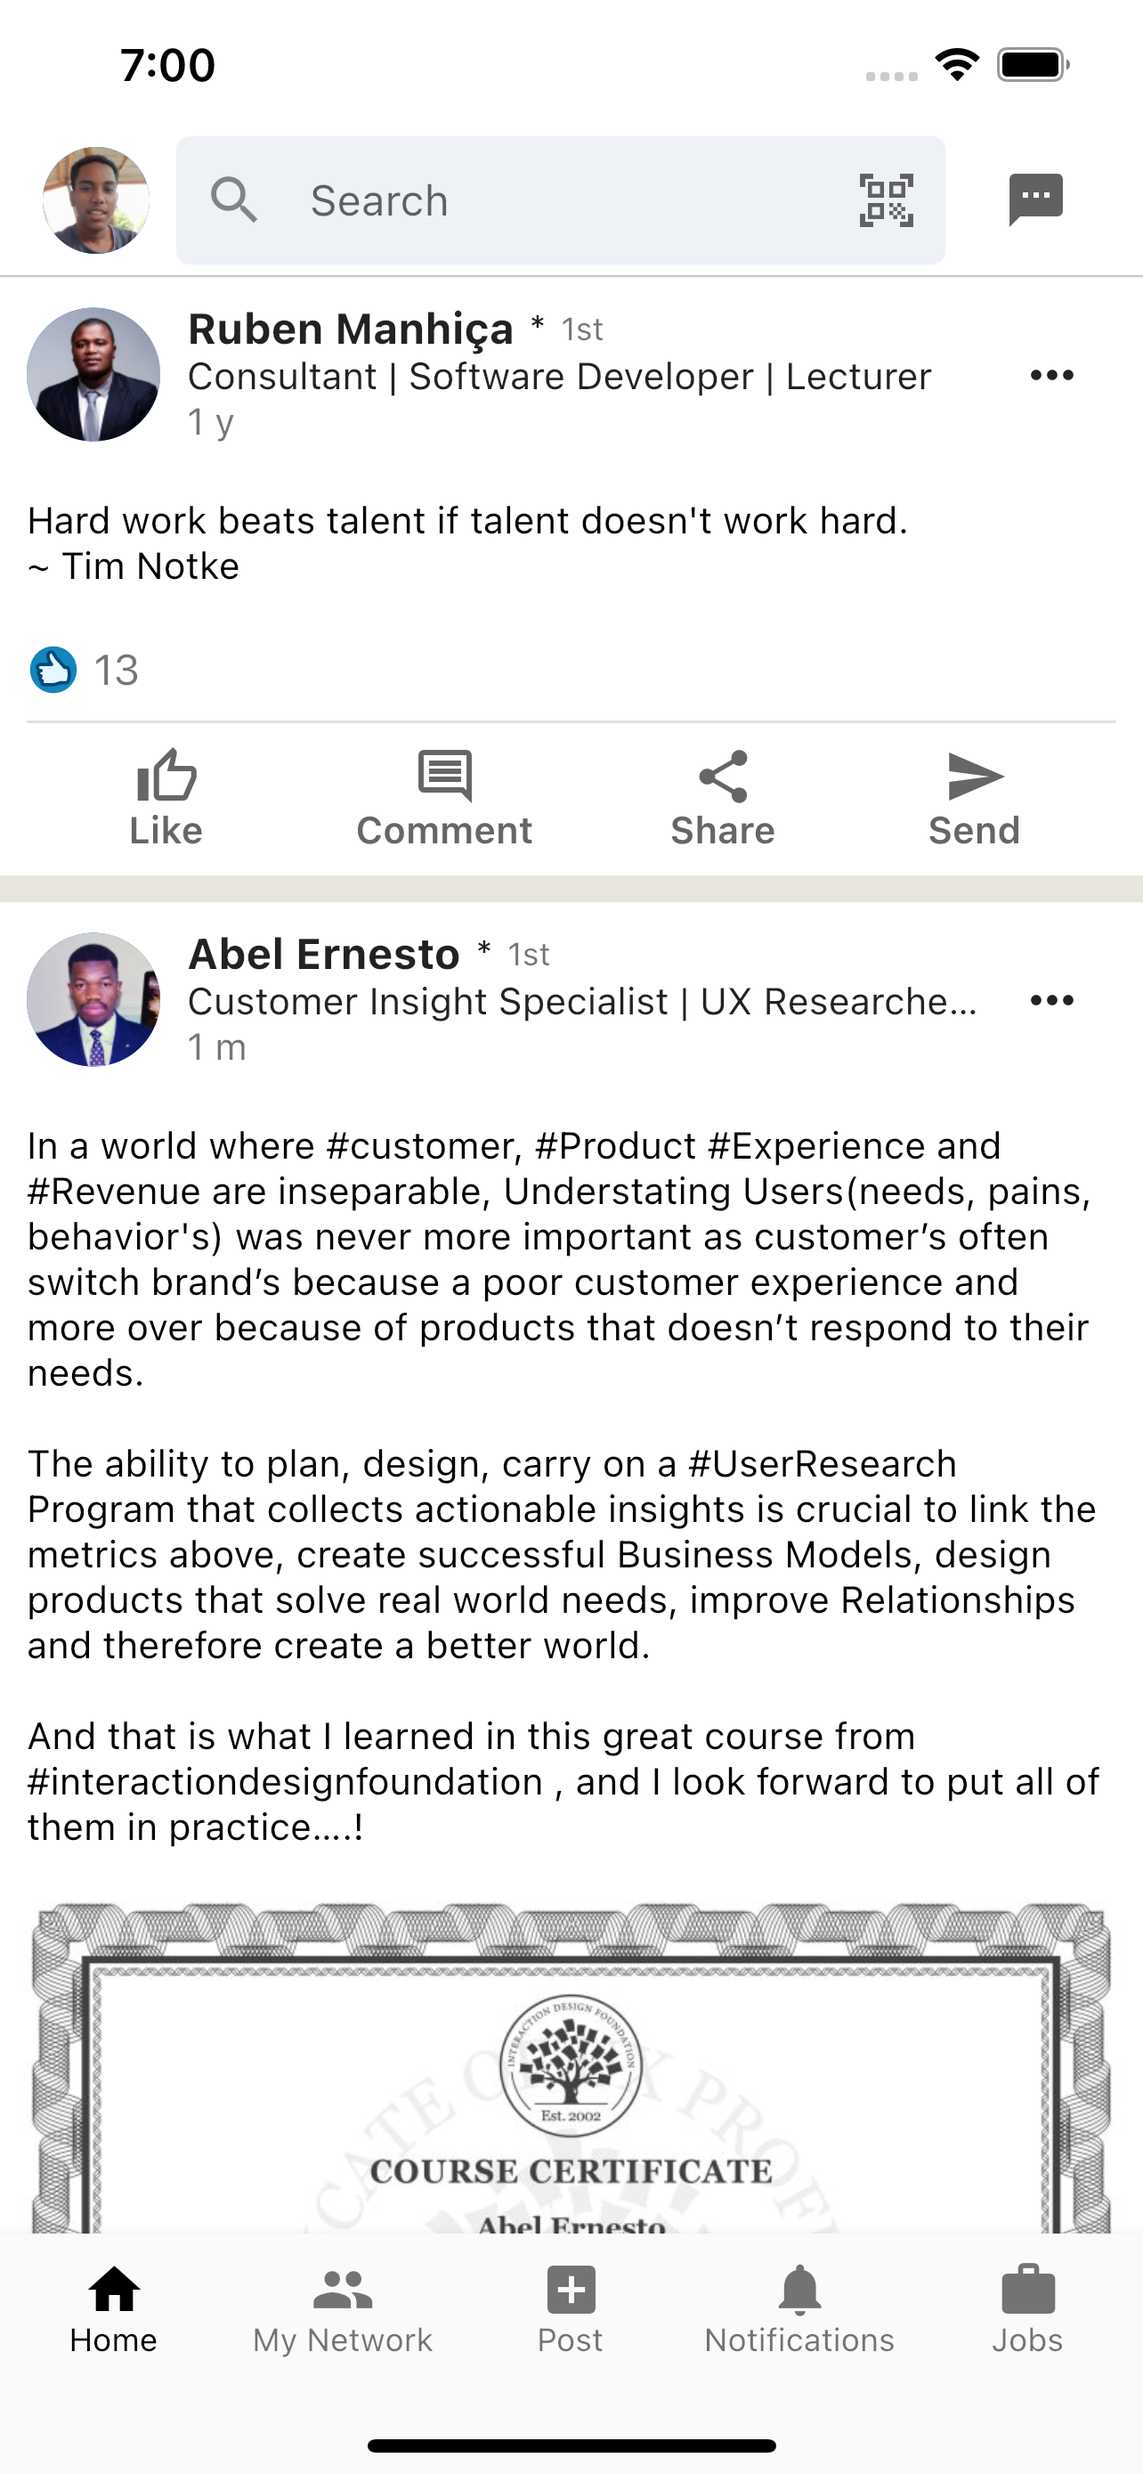
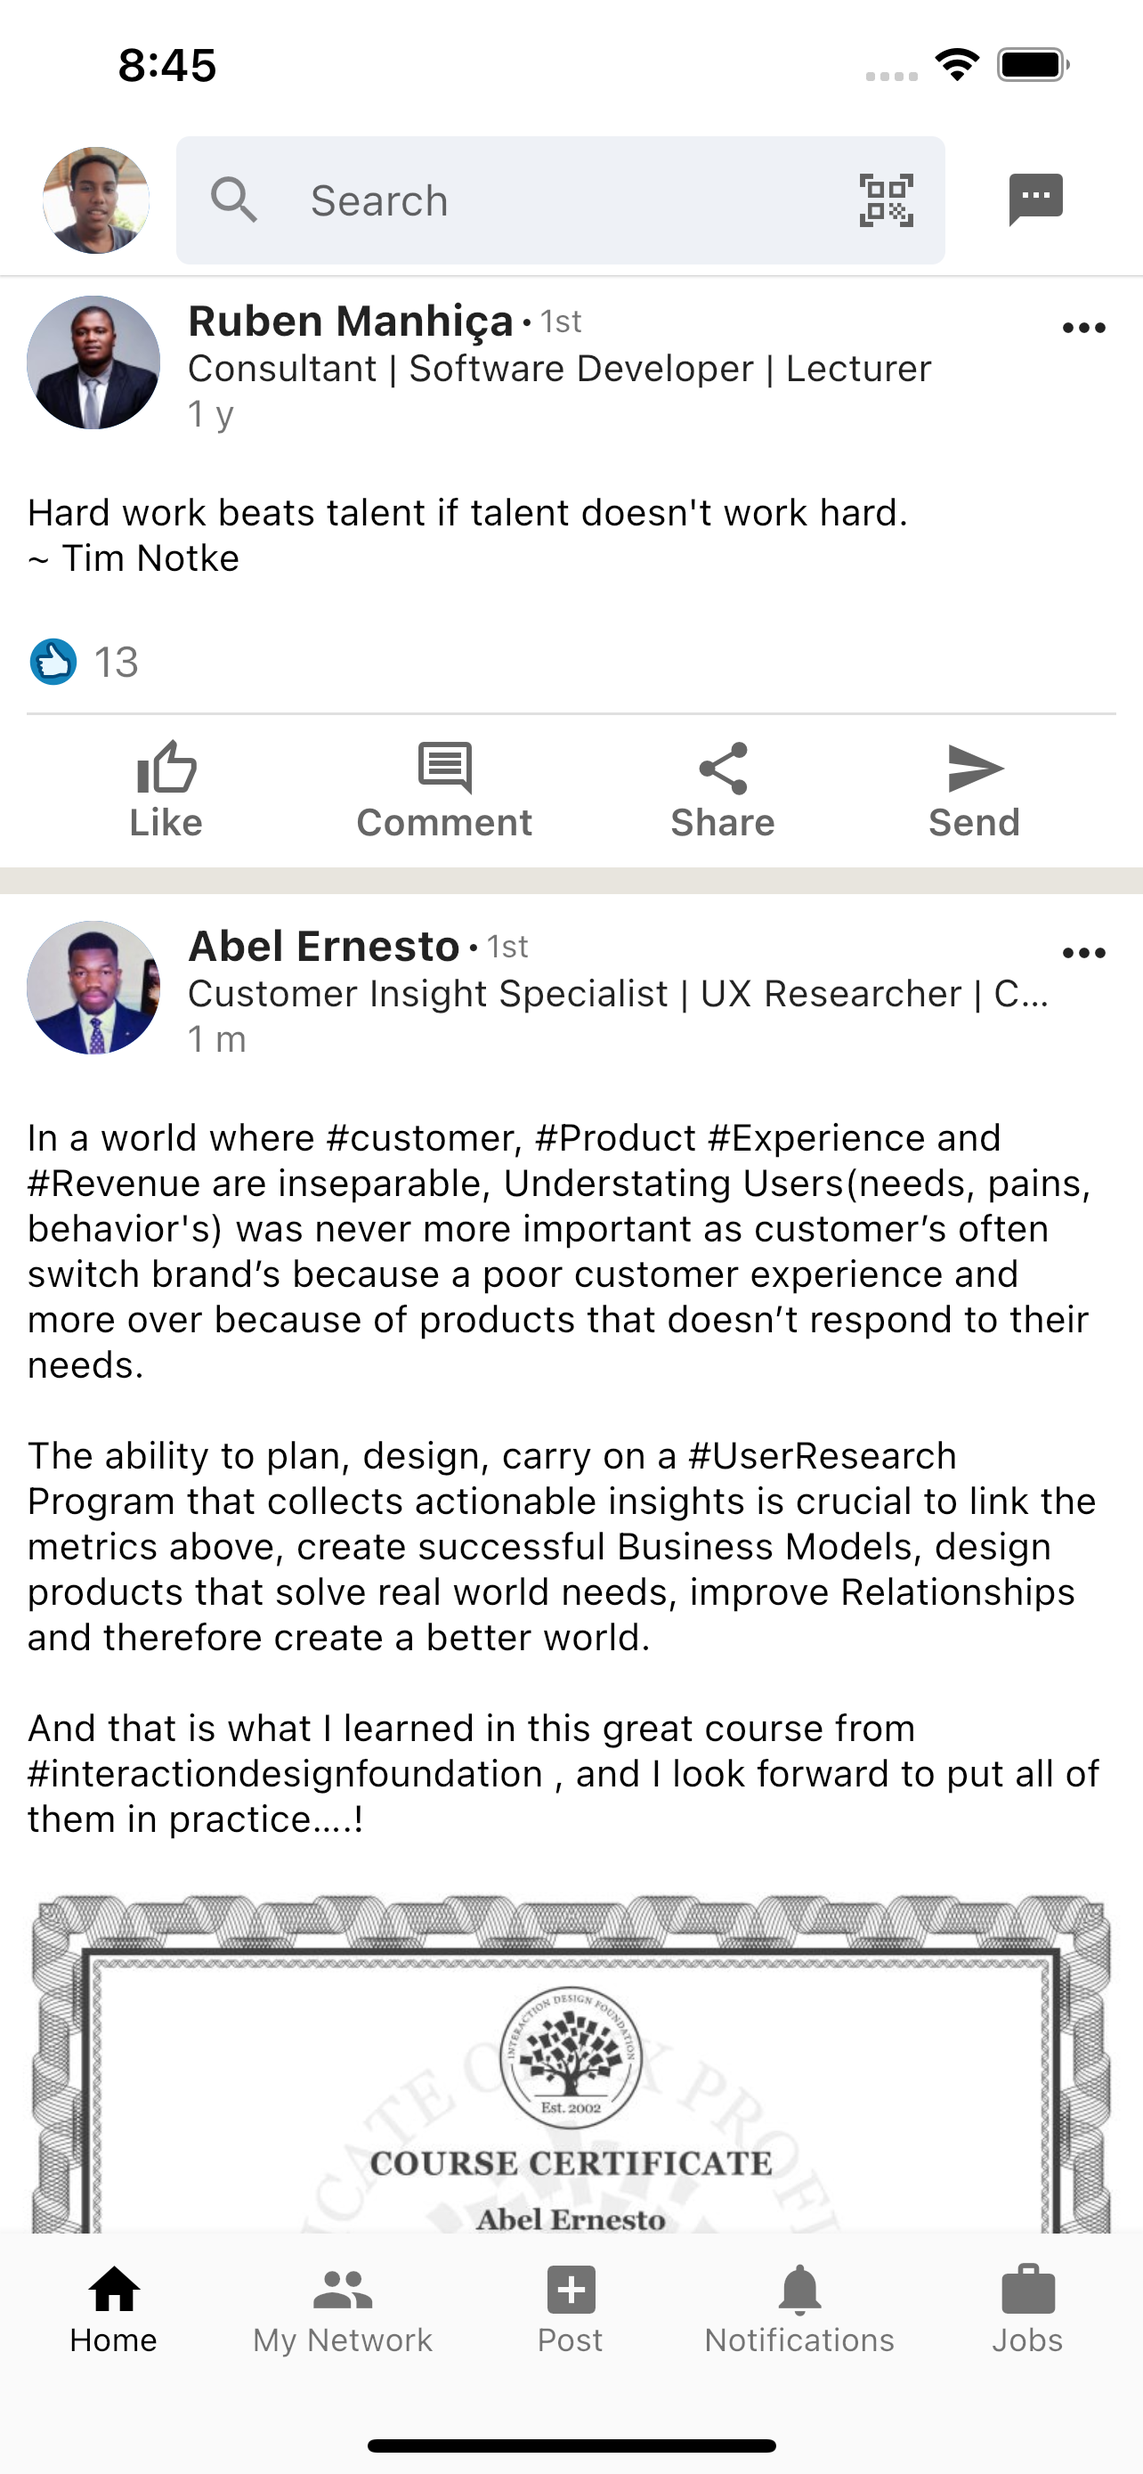
Update UI
Improved some UI details, and changed SingleChildScrollView > Container to ListView.builder(...)

diff --git a/LinkedIn/lib/main.dart b/LinkedIn/lib/main.dart
@@ -1,6 +1,8 @@
 import 'package:flutter/material.dart';
 import 'package:flutter_svg/svg.dart';
 
+import 'dummy_data.dart';
+
 void main() {
   runApp(MyApp());
 }
@@ -24,82 +26,6 @@ class MyApp extends StatelessWidget {
 }
 
 class HomePage extends StatelessWidget {
-  final _posts = const [
-    {
-      "userName": "Nurmomade Ali",
-      "userImage":
-          "https://media-exp1.licdn.com/dms/image/D4D35AQHn5X8Y-25QHg/profile-framedphoto-shrink_100_100/0/1622900878670?e=1626282000&v=beta&t=-5amweZZBHueZ2x3UZl9jfzdEo6147FiUYNt00BjUdY",
-      "number": "2nd",
-      "currentPosition": "Intermodal Transport Specialist na CMA CGM",
-      "createdAt": "2 m",
-      "image":
-          "https://media-exp1.licdn.com/dms/image/C4D22AQEmYtl0Po3xQA/feedshare-shrink_2048_1536/0/1619508784921?e=1629331200&v=beta&t=iKpCyP_MKRguwxezw6ggZddmhzTJ4kJYXZ1CXWwDBcw",
-      "caption":
-          """Ha alguns meses atras recebi com agrado o convite da AMECON (Associação Moçambicana de Economistas) da qual sou membro, para participar da iniciativa Cafe Negócios organizada pela Revista Negócios com o tema "Desafios da Economia Moçambicana na era da Nova Normalidade".
-Abaixo a foto família e a minha intervenção.""",
-      "likeBadges": [
-        "assets/icons/like.svg",
-        "assets/icons/congrats.svg",
-        "assets/icons/support.svg",
-      ],
-      "reactions": 33,
-      "comments": 1,
-    },
-    {
-      "userName": "Dulcidonio Dos Santos Júnior",
-      "userImage":
-          "https://media-exp1.licdn.com/dms/image/C4D03AQGsu6iOGmIQwQ/profile-displayphoto-shrink_200_200/0/1612965833928?e=1631750400&v=beta&t=MRY-BfBxiAD3i-qBB4V1USFXpM8N3Ct4iu8oPzfhegM",
-      "number": "1st",
-      "currentPosition": "Applied Technology student.",
-      "createdAt": "2 h",
-      "image": null,
-      "caption":
-          """The Strongest techonological security measure can be quickly defeated if the employees angage in unsafe behaviours...
-          
-So when implementing security policies, I feel that User Education and Awareness Policy is very important, because it helps employees be familiarized with organization's security policy, is where there will find answers of how to respond to security events, and is where the reporting procedures for suspected security violations will be found..""",
-      "likeBadges": ["assets/icons/like.svg"],
-      "reactions": 1,
-      "comments": 0,
-    },
-    {
-      "userName": "Ruben Manhiça",
-      "userImage":
-          "https://media-exp1.licdn.com/dms/image/C4E03AQGgcvK6VjmQwA/profile-displayphoto-shrink_100_100/0/1566278149183?e=1631750400&v=beta&t=TxGmaRhmjXWJEblmuFGUEGRPPg_BiIm0cgQS-zx0T2Y",
-      "number": "1st",
-      "currentPosition": "Consultant | Software Developer | Lecturer",
-      "createdAt": "1 y",
-      "image": null,
-      "caption": """Hard work beats talent if talent doesn't work hard.
-~ Tim Notke""",
-      "likeBadges": ["assets/icons/like.svg"],
-      "reactions": 17,
-      "comments": 2,
-    },
-    {
-      "userName": "Abel Ernesto",
-      "userImage":
-          "https://media-exp1.licdn.com/dms/image/C4D03AQHsmrI2ra4HTw/profile-displayphoto-shrink_100_100/0/1597696339477?e=1631750400&v=beta&t=inFg_0ph_lYHKYMiF83SCY4wFRZ55WekrM_hVadqQ7A",
-      "number": "1st",
-      "currentPosition":
-          "Customer Insight Specialist | UX Researcher | CX Analyst | Teacher",
-      "createdAt": "1 m",
-      "image":
-          "https://media-exp1.licdn.com/dms/image/C4D22AQHP_ZAepACndw/feedshare-shrink_800/0/1623178814906?e=1629331200&v=beta&t=rO27gdOcKworSblxDtsIrfmUoKNmsEuoBDVRETijvjM",
-      "caption":
-          """In a world where #customer, #Product #Experience and #Revenue are inseparable, Understating Users(needs, pains, behavior's) was never more important as customer’s often switch brand’s because a poor customer experience and more over because of products that doesn’t respond to their needs.  
-          
-The ability to plan, design, carry on a #UserResearch Program that collects actionable insights is crucial to link the metrics above, create successful Business Models, design products that solve real world needs, improve Relationships and therefore create a better world. 
-          
-And that is what I learned in this great course from #interactiondesignfoundation , and I look forward to put all of them in practice….!""",
-      "likeBadges": [
-        "assets/icons/like.svg",
-        "assets/icons/congrats.svg",
-      ],
-      "reactions": 45,
-      "comments": 14,
-    },
-  ];
-
   @override
   Widget build(BuildContext context) {
     return Scaffold(
@@ -108,14 +34,14 @@ And that is what I learned in this great course from #interactiondesignfoundatio
         elevation: 1.0,
         title: Row(
           children: <Widget>[
-            CircleAvatar(
+            const CircleAvatar(
               backgroundImage: AssetImage("assets/images/profile.jpeg"),
             ),
             const SizedBox(width: 10.0),
             Expanded(
               child: Container(
                 decoration: BoxDecoration(
-                  color: Color.fromRGBO(238, 241, 246, 1.0),
+                  color: const Color.fromRGBO(238, 241, 246, 1.0),
                   borderRadius: BorderRadius.circular(5.0),
                 ),
                 padding: const EdgeInsets.symmetric(horizontal: 10.0),
@@ -123,14 +49,14 @@ And that is what I learned in this great course from #interactiondesignfoundatio
                   children: <Widget>[
                     Expanded(
                       child: TextField(
-                        decoration: InputDecoration(
+                        decoration: const InputDecoration(
                           hintText: "Search",
                           icon: Icon(Icons.search),
                           border: InputBorder.none,
                         ),
                       ),
                     ),
-                    GestureDetector(child: Icon(Icons.qr_code_scanner)),
+                    GestureDetector(child: const Icon(Icons.qr_code_scanner)),
                   ],
                 ),
               ),
@@ -138,26 +64,21 @@ And that is what I learned in this great course from #interactiondesignfoundatio
             const SizedBox(width: 10.0),
             IconButton(
               onPressed: () {},
-              icon: Icon(Icons.textsms),
+              icon: const Icon(Icons.textsms),
             ),
           ],
         ),
       ),
-      body: SingleChildScrollView(
-        child: Column(
+      body: ListView.builder(
+        itemCount: DUMMY_POSTS.length,
+        itemBuilder: (context, index) => Column(
           children: [
-            ..._posts.map((post) {
-              return Column(
-                children: [
-                  PostCard(
-                    post: post,
-                  ),
-                  SizedBox(
-                    height: 10.0,
-                  )
-                ],
-              );
-            }).toList(),
+            PostCard(
+              post: DUMMY_POSTS[index],
+            ),
+            const SizedBox(
+              height: 10.0,
+            )
           ],
         ),
       ),
@@ -225,6 +146,7 @@ class PostCard extends StatelessWidget {
 
   @override
   Widget build(BuildContext context) {
+    print(post);
     return Container(
       color: Colors.white,
       child: Column(
@@ -234,6 +156,7 @@ class PostCard extends StatelessWidget {
           Padding(
             padding: const EdgeInsets.all(10.0),
             child: Row(
+              crossAxisAlignment: CrossAxisAlignment.start,
               mainAxisAlignment: MainAxisAlignment.spaceBetween,
               children: <Widget>[
                 CircleAvatar(
@@ -247,31 +170,40 @@ class PostCard extends StatelessWidget {
                     children: <Widget>[
                       Row(
                         children: [
-                          Flexible(
-                            fit: FlexFit.loose,
-                            child: Text(
-                              post["userName"],
-                              style: Theme.of(context)
-                                  .textTheme
-                                  .bodyText1!
-                                  .copyWith(
-                                    fontSize: 16,
-                                    fontWeight: FontWeight.bold,
+                          Expanded(
+                            child: Row(
+                              children: [
+                                Flexible(
+                                  fit: FlexFit.loose,
+                                  child: Text(
+                                    post["userName"],
+                                    style: Theme.of(context)
+                                        .textTheme
+                                        .bodyText1!
+                                        .copyWith(
+                                          fontSize: 16,
+                                          fontWeight: FontWeight.bold,
+                                        ),
+                                    maxLines: 1,
+                                    overflow: TextOverflow.ellipsis,
+                                    textWidthBasis: TextWidthBasis.longestLine,
                                   ),
-                              maxLines: 1,
-                              overflow: TextOverflow.ellipsis,
+                                ),
+                                const SizedBox(width: 1.0),
+                                Text("•"),
+                                const SizedBox(width: 1.0),
+                                Text(
+                                  post["number"],
+                                  style: Theme.of(context)
+                                      .textTheme
+                                      .caption!
+                                      .copyWith(
+                                        fontSize: 12,
+                                        fontWeight: FontWeight.w400,
+                                      ),
+                                ),
+                              ],
                             ),
-                          ),
-                          const SizedBox(width: 5.0),
-                          Text("*"),
-                          const SizedBox(width: 5.0),
-                          Text(
-                            post["number"],
-                            style:
-                                Theme.of(context).textTheme.caption!.copyWith(
-                                      fontSize: 12,
-                                      fontWeight: FontWeight.w400,
-                                    ),
                           ),
                         ],
                       ),
@@ -292,10 +224,7 @@ class PostCard extends StatelessWidget {
                     ],
                   ),
                 ),
-                IconButton(
-                  onPressed: () {},
-                  icon: Icon(Icons.more_horiz),
-                ),
+                const Icon(Icons.more_horiz),
               ],
             ),
           ),
@@ -341,7 +270,7 @@ class PostCard extends StatelessWidget {
           ),
           Padding(
             padding: const EdgeInsets.symmetric(horizontal: 10.0),
-            child: Divider(
+            child: const Divider(
               thickness: 1.0,
               height: 0,
             ),
@@ -352,7 +281,7 @@ class PostCard extends StatelessWidget {
               TextButton(
                 onPressed: () {},
                 child: Column(
-                  children: <Widget>[
+                  children: const <Widget>[
                     Icon(Icons.thumb_up_outlined),
                     Text(
                       "Like",
@@ -369,7 +298,7 @@ class PostCard extends StatelessWidget {
               TextButton(
                 onPressed: () {},
                 child: Column(
-                  children: <Widget>[
+                  children: const <Widget>[
                     Icon(Icons.comment_outlined),
                     Text(
                       "Comment",
@@ -388,7 +317,7 @@ class PostCard extends StatelessWidget {
               TextButton(
                 onPressed: () {},
                 child: Column(
-                  children: <Widget>[
+                  children: const <Widget>[
                     Icon(Icons.share),
                     Text(
                       "Share",
@@ -405,7 +334,7 @@ class PostCard extends StatelessWidget {
               TextButton(
                 onPressed: () {},
                 child: Column(
-                  children: <Widget>[
+                  children: const <Widget>[
                     Icon(Icons.send),
                     Text(
                       "Send",

diff --git a/LinkedIn/lib/dummy_data.dart b/LinkedIn/lib/dummy_data.dart
@@ -1,0 +1,75 @@
+const DUMMY_POSTS = const [
+  {
+    "userName": "Nurmomade Ali",
+    "userImage":
+        "https://media-exp1.licdn.com/dms/image/D4D35AQHn5X8Y-25QHg/profile-framedphoto-shrink_400_400/0/1622900878670?e=1627110000&v=beta&t=jJaST_jZdcfG2YGUdEvz7b2HS3EmGTt1BJ6cBk1Uqbg",
+    "number": "2nd",
+    "currentPosition": "Intermodal Transport Specialist na CMA CGM",
+    "createdAt": "2 m",
+    "image":
+        "https://media-exp1.licdn.com/dms/image/C4D22AQEmYtl0Po3xQA/feedshare-shrink_2048_1536/0/1619508784921?e=1629331200&v=beta&t=iKpCyP_MKRguwxezw6ggZddmhzTJ4kJYXZ1CXWwDBcw",
+    "caption":
+        """Ha alguns meses atras recebi com agrado o convite da AMECON (Associação Moçambicana de Economistas) da qual sou membro, para participar da iniciativa Cafe Negócios organizada pela Revista Negócios com o tema "Desafios da Economia Moçambicana na era da Nova Normalidade".
+Abaixo a foto família e a minha intervenção.""",
+    "likeBadges": [
+      "assets/icons/like.svg",
+      "assets/icons/congrats.svg",
+      "assets/icons/support.svg",
+    ],
+    "reactions": 33,
+    "comments": 1,
+  },
+  {
+    "userName": "Dulcidonio Dos Santos Júnior kjhgkljgf",
+    "userImage":
+        "https://media-exp1.licdn.com/dms/image/C4D03AQGsu6iOGmIQwQ/profile-displayphoto-shrink_200_200/0/1612965833928?e=1631750400&v=beta&t=MRY-BfBxiAD3i-qBB4V1USFXpM8N3Ct4iu8oPzfhegM",
+    "number": "1st",
+    "currentPosition": "Applied Technology student.",
+    "createdAt": "2 h",
+    "image": null,
+    "caption":
+        """The Strongest techonological security measure can be quickly defeated if the employees angage in unsafe behaviours...
+          
+So when implementing security policies, I feel that User Education and Awareness Policy is very important, because it helps employees be familiarized with organization's security policy, is where there will find answers of how to respond to security events, and is where the reporting procedures for suspected security violations will be found..""",
+    "likeBadges": ["assets/icons/like.svg"],
+    "reactions": 1,
+    "comments": 0,
+  },
+  {
+    "userName": "Ruben Manhiça",
+    "userImage":
+        "https://media-exp1.licdn.com/dms/image/C4E03AQGgcvK6VjmQwA/profile-displayphoto-shrink_100_100/0/1566278149183?e=1631750400&v=beta&t=TxGmaRhmjXWJEblmuFGUEGRPPg_BiIm0cgQS-zx0T2Y",
+    "number": "1st",
+    "currentPosition": "Consultant | Software Developer | Lecturer",
+    "createdAt": "1 y",
+    "image": null,
+    "caption": """Hard work beats talent if talent doesn't work hard.
+~ Tim Notke""",
+    "likeBadges": ["assets/icons/like.svg"],
+    "reactions": 17,
+    "comments": 2,
+  },
+  {
+    "userName": "Abel Ernesto",
+    "userImage":
+        "https://media-exp1.licdn.com/dms/image/C4D03AQHsmrI2ra4HTw/profile-displayphoto-shrink_100_100/0/1597696339477?e=1631750400&v=beta&t=inFg_0ph_lYHKYMiF83SCY4wFRZ55WekrM_hVadqQ7A",
+    "number": "1st",
+    "currentPosition":
+        "Customer Insight Specialist | UX Researcher | CX Analyst | Teacher",
+    "createdAt": "1 m",
+    "image":
+        "https://media-exp1.licdn.com/dms/image/C4D22AQHP_ZAepACndw/feedshare-shrink_800/0/1623178814906?e=1629331200&v=beta&t=rO27gdOcKworSblxDtsIrfmUoKNmsEuoBDVRETijvjM",
+    "caption":
+        """In a world where #customer, #Product #Experience and #Revenue are inseparable, Understating Users(needs, pains, behavior's) was never more important as customer’s often switch brand’s because a poor customer experience and more over because of products that doesn’t respond to their needs.  
+          
+The ability to plan, design, carry on a #UserResearch Program that collects actionable insights is crucial to link the metrics above, create successful Business Models, design products that solve real world needs, improve Relationships and therefore create a better world. 
+          
+And that is what I learned in this great course from #interactiondesignfoundation , and I look forward to put all of them in practice….!""",
+    "likeBadges": [
+      "assets/icons/like.svg",
+      "assets/icons/congrats.svg",
+    ],
+    "reactions": 45,
+    "comments": 14,
+  },
+];
